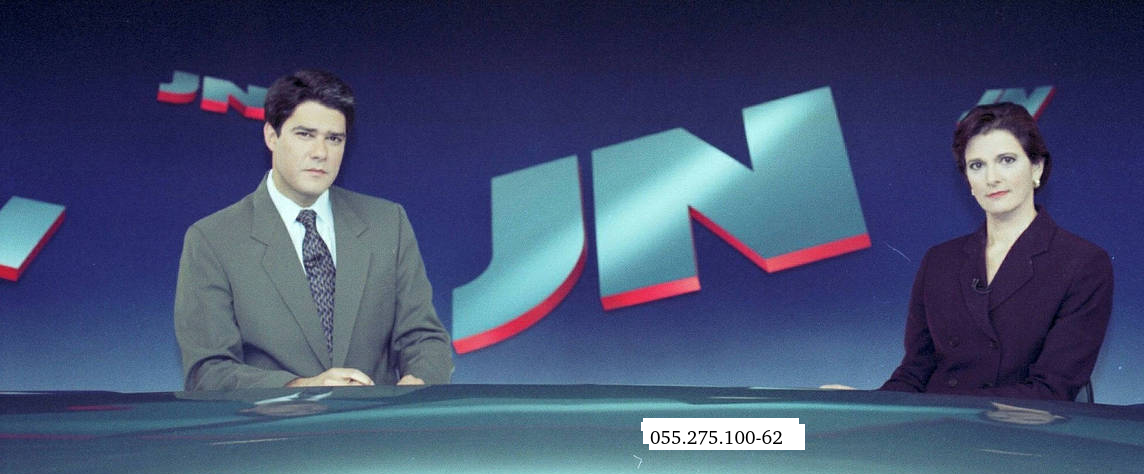
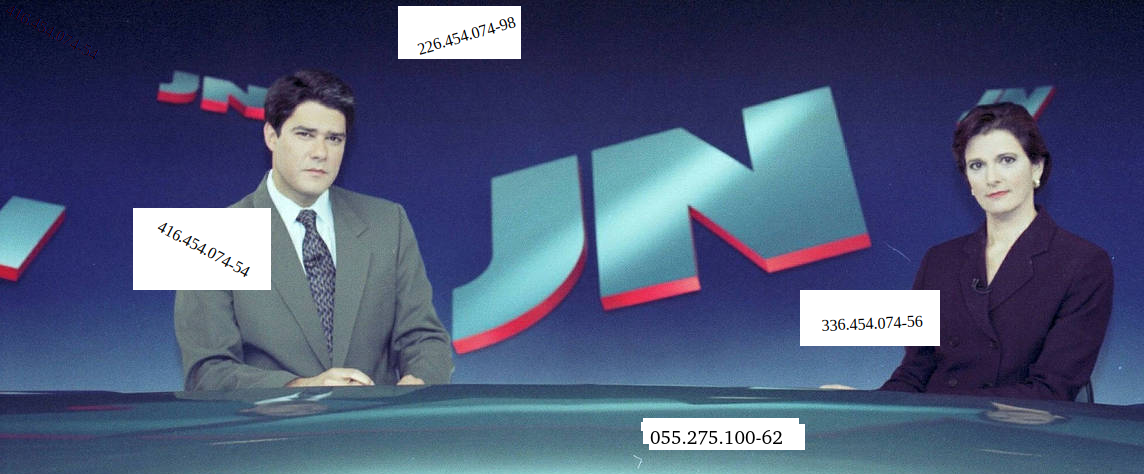
melhorias

diff --git a/detectar_texto.py b/detectar_texto.py
@@ -1,18 +1,50 @@
 import easyocr
 import re
+import cv2
+import numpy as np
 
 # Inicializa OCR em português
 reader = easyocr.Reader(['pt'])
 
-# Lê texto da imagem
-resultado = reader.readtext("dados.png")
+# Lê a imagem
+image_path = "dados.png"
+image = cv2.imread(image_path)
 
-texto = " ".join([res[1] for res in resultado])
-print("Texto extraído:", texto)
+# Detecta texto e obtém bounding boxes
+resultado = reader.readtext(image_path, detail=1)
 
-# Normaliza o texto para facilitar a detecção de CPFs
-texto_normalizado = re.sub(r'\s+', '', texto)
+cpfs = []
 
-# Procurar sequências de caracteres (ex: cpfs)
-cpfs = re.findall(r'\d{3}\.\d{3}\.\d{3}-\d{2}', texto_normalizado)
+for res in resultado:
+    bbox, text, conf = res
+    # Calcular o ângulo do texto usando os pontos do bounding box
+    (tl, tr, br, bl) = bbox
+    dx = tr[0] - tl[0]
+    dy = tr[1] - tl[1]
+    angle = np.degrees(np.arctan2(dy, dx))
+
+    # Deskew se o ângulo for significativo (por exemplo, > 5 graus)
+    if abs(angle) > 5:
+        # Crop da região do texto
+        pts = np.array(bbox, dtype="float32")
+        rect = cv2.boundingRect(pts)
+        x, y, w, h = rect
+        cropped = image[y:y+h, x:x+w]
+
+        # Rotaciona a região
+        center = (w // 2, h // 2)
+        M = cv2.getRotationMatrix2D(center, angle, 1.0)
+        rotated = cv2.warpAffine(cropped, M, (w, h), flags=cv2.INTER_CUBIC, borderMode=cv2.BORDER_REPLICATE)
+
+        # OCR na região rotacionada
+        region_result = reader.readtext(rotated)
+        region_text = " ".join([r[1] for r in region_result])
+    else:
+        region_text = text
+
+    # Normaliza e procura CPF
+    texto_normalizado = re.sub(r'\s+', '', region_text)
+    cpfs_encontrados = re.findall(r'\d{3}\.\d{3}\.\d{3}-\d{2}', texto_normalizado)
+    cpfs.extend(cpfs_encontrados)
+
 print("CPFs encontrados:", cpfs)

diff --git a/image_transformations.py b/image_transformations.py
@@ -1,0 +1,43 @@
+import cv2 as cv
+import numpy as np
+
+
+# translation, resizing, rotation, flipping, cropping
+
+img = cv.imread("dados.png")
+
+# translation - shifting the image in x and y direction
+def translate(img, x, y):
+    transMat = np.float32([[1, 0, x], [0, 1, y]])
+    dimensions = (img.shape[1], img.shape[0])
+    return cv.warpAffine(img, transMat, dimensions)
+
+# -x --> left
+# -y --> up
+# +x --> right
+# +y --> down
+translated = translate(img, -100, 100)
+cv.imshow("Translated", translated)
+cv.waitKey(0)
+
+# Rotation
+# podemos rotar uma imagem em torno de um ponto especifico, normalmente o centro da imagem
+def rotate(img, angle, rotPoint=None):
+     (height, width) = img.shape[:2]
+
+     if rotPoint is None:
+         rotPoint = (width//2, height//2) # a divisao inteira
+
+     rotMat = cv.getRotationMatrix2D(rotPoint, angle, 1.0)
+     dimensions = (width, height)
+
+     return cv.warpAffine(img, rotMat, dimensions)
+
+rotated = rotate(img, -45)
+cv.imshow("Rotated", rotated)
+cv.waitKey(0)
+
+# Flipping
+flip = cv.flip(img, 1) # 0 vertical, 1 horizontal, -1 ambos
+cv.imshow("Flip", flip)
+cv.waitKey(0)

diff --git a/more_tools.py b/more_tools.py
@@ -1,0 +1,23 @@
+import cv2 as cv
+
+img = cv.imread("dados.png")
+
+gray = cv.cvtColor(img, cv.COLOR_BGR2GRAY)
+
+cv.imshow("Imagem", gray) # exibe a imagem em uma janela
+cv.waitKey(0) # aguarda até que uma tecla seja pressionada 
+
+blur = cv.GaussianBlur(gray, (9,9), cv.BORDER_DEFAULT)
+
+cv.imshow("Imagem", blur) # exibe a imagem em uma janela
+cv.waitKey(0) # aguarda até que uma tecla seja pressionada
+
+canny = cv.Canny(blur, 125, 175)
+cv.imshow("Imagem", canny) # exibe a imagem em uma janela
+cv.waitKey(0) # aguarda até que uma tecla seja pressionada
+
+dilated = cv.dilate(canny, (7,7), iterations=3)
+cv.imshow("Imagem", dilated) # exibe a imagem em uma janela
+cv.waitKey(0) # aguarda até que uma tecla seja pressionada
+
+resized = cv.resize(img, (500, 500), interpolation=cv.INTER_CUBIC)

diff --git a/README.md b/README.md
@@ -19,3 +19,6 @@
 
 - Importar a biblioteca Numpy
 `pip install numpy`
+
+- Based on this (course)[https://www.youtube.com/watch?v=oXlwWbU8l2o]
+
